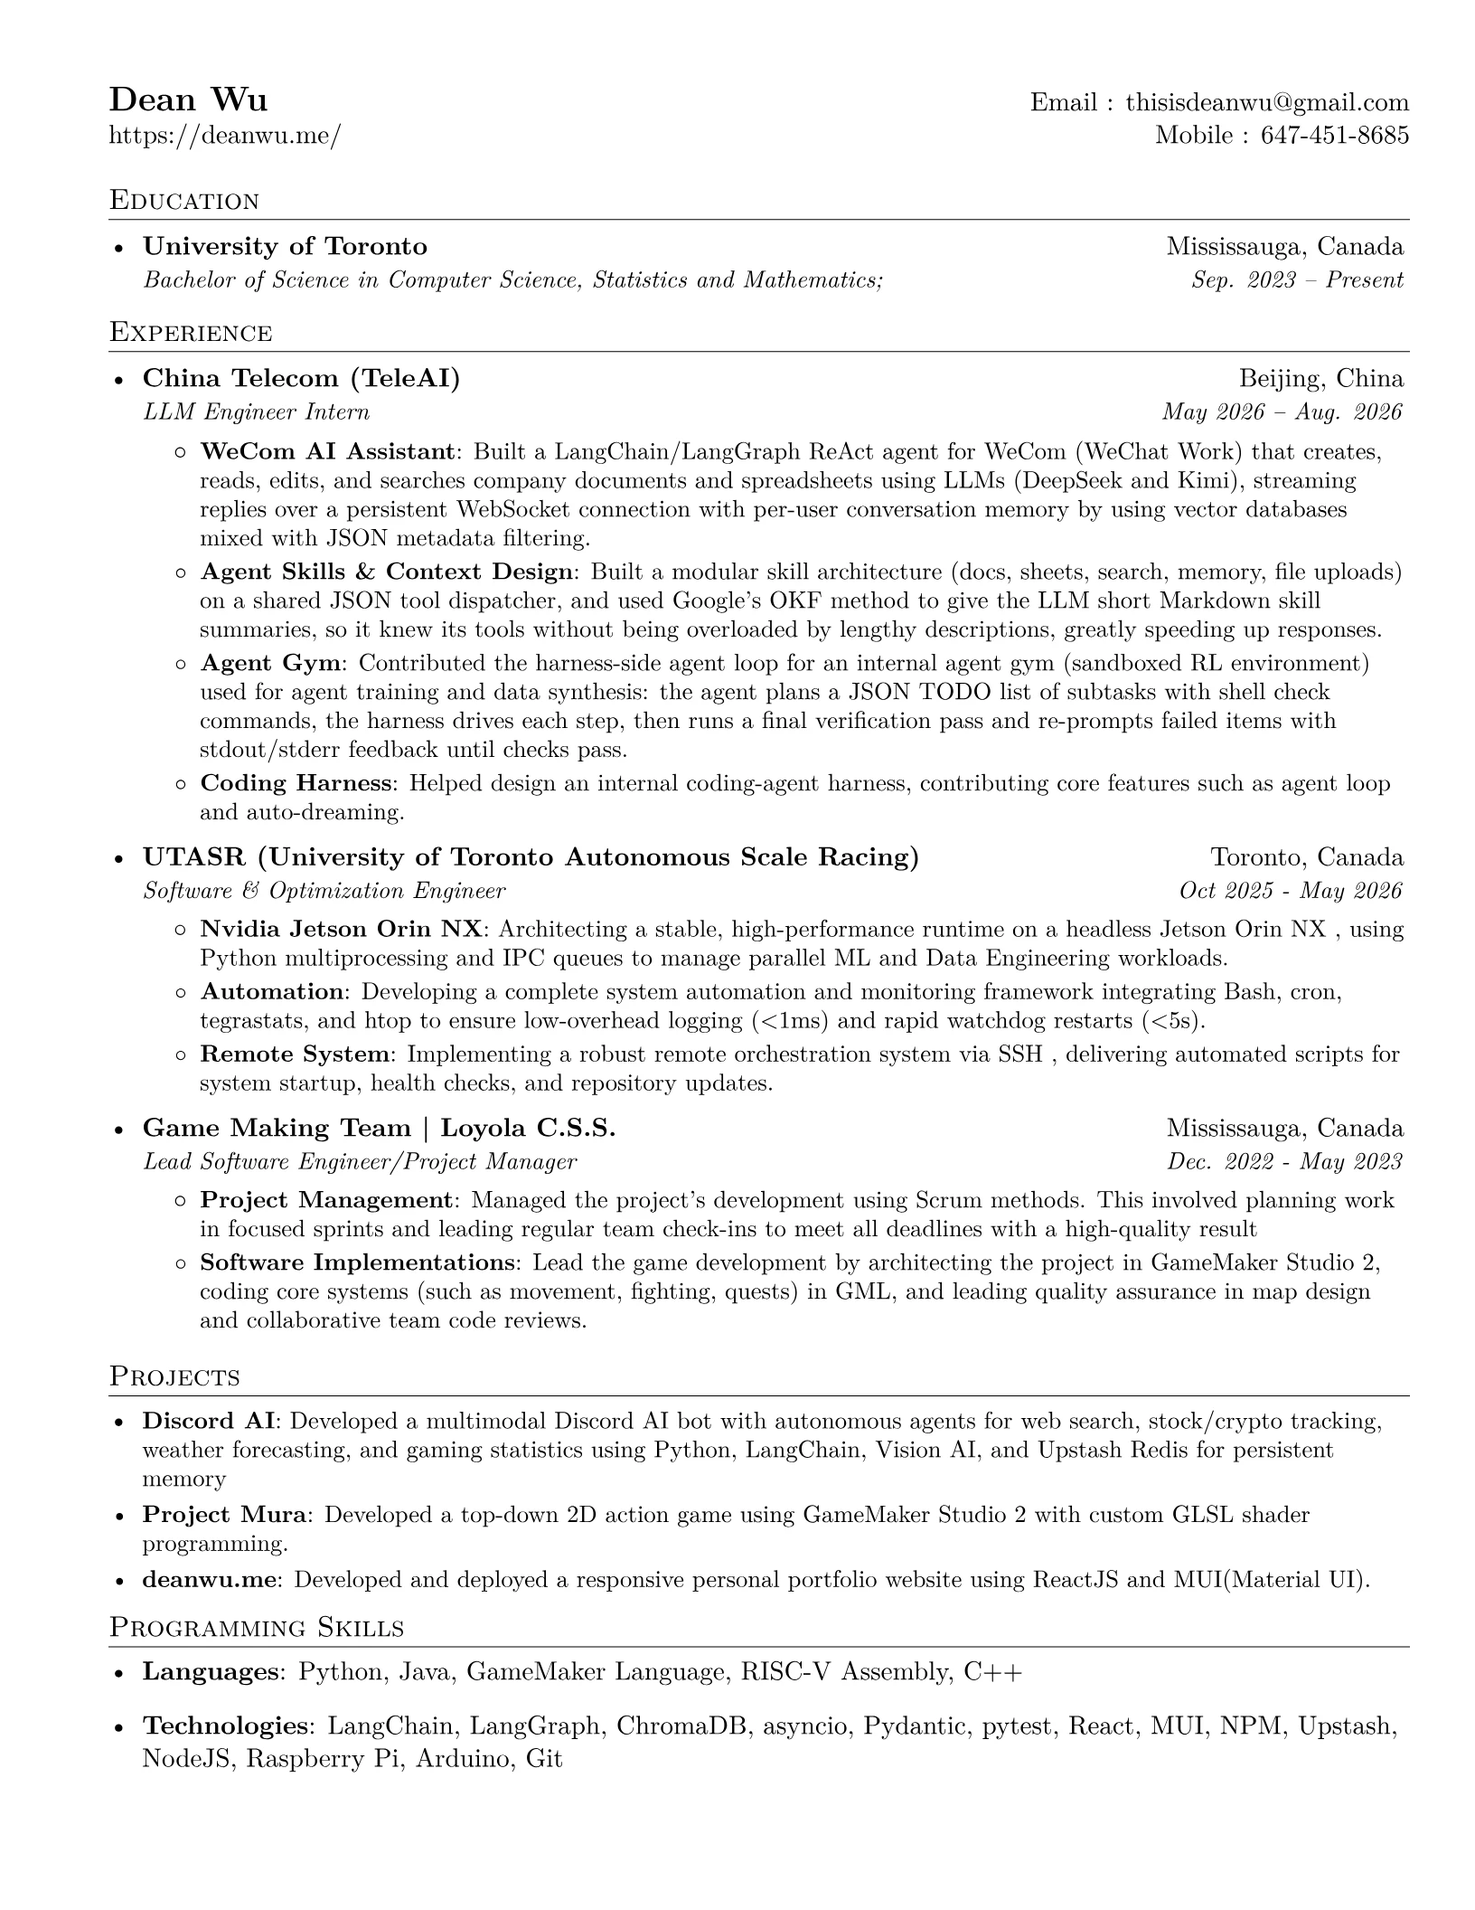
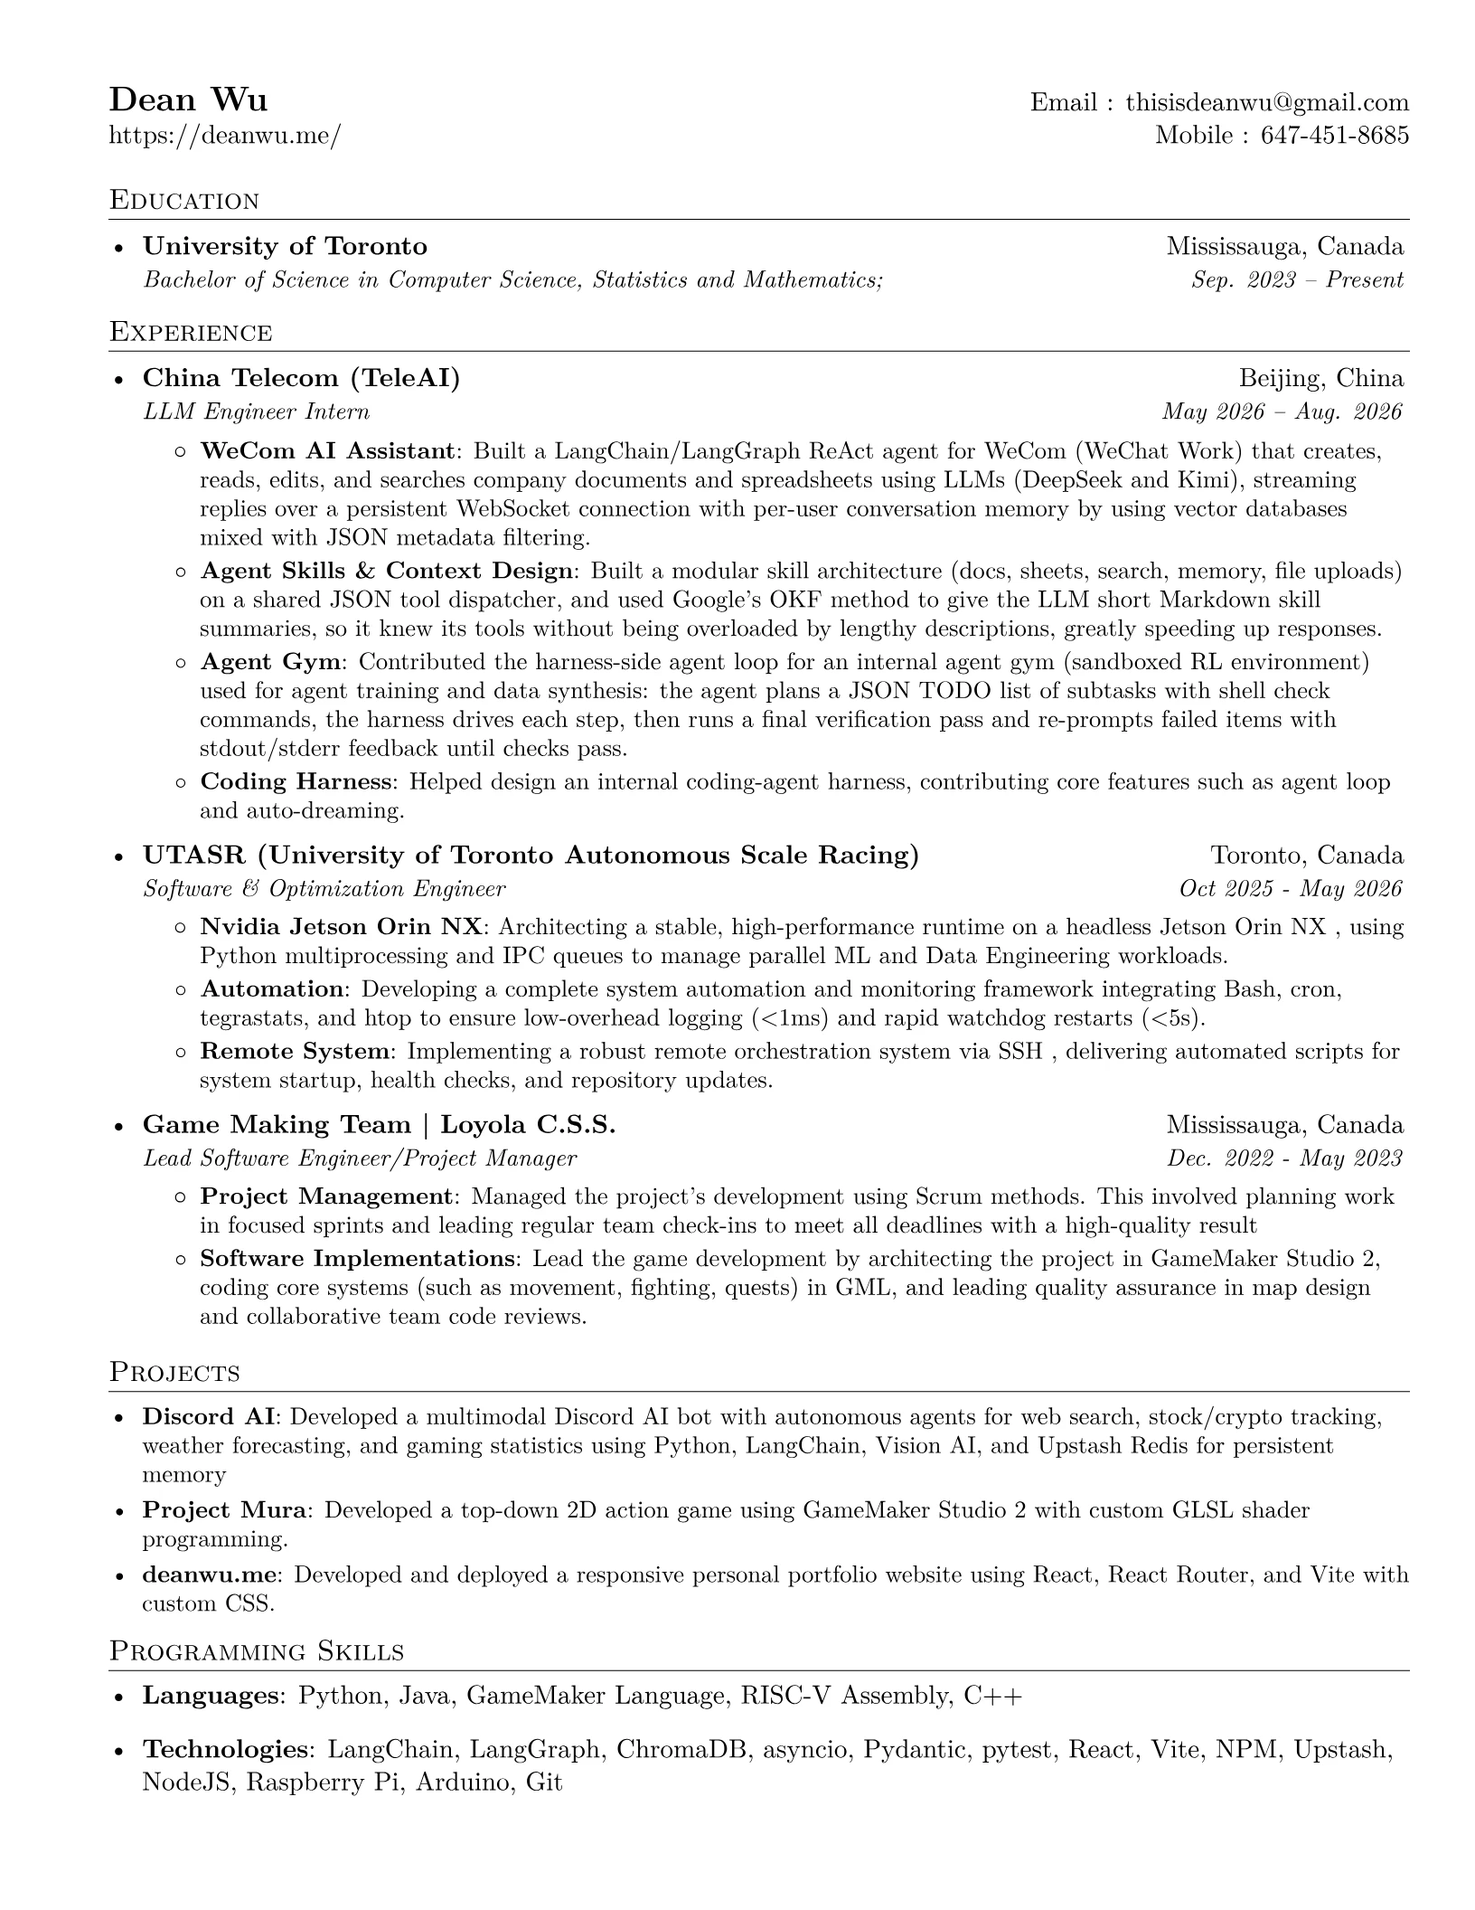
Sync resume page, experience and README with current site
- Rewrite resume page to match the LaTeX resume, keeping the longer
  detailed entries (Robotics, Basil Box, extended Game Making bullets)
- Add role/location lines to resume entries
- Update experience timeline with China Telecom and UTASR summaries,
  correct degree, remove Loyola high school
- Replace MUI with React Router/Vite in project descriptions and skills
- Refresh deanwu.me project screenshot and thumbnail
- Rewrite README with stack, local setup and resume build steps
- Regenerate resume PDF and preview

diff --git a/src/pages/Resume.jsx b/src/pages/Resume.jsx
@@ -3,16 +3,27 @@ import Page from '../components/Page';
 import useEscape from '../components/useEscape';
 import { Printer, Close } from '../components/Icons';
 
-function Entry({ title, date, points }) {
+function Entry({ title, date, subtitle, place, points }) {
   return (
     <div className="entry">
       <div className="entry-head">
         <h3>{title}</h3>
-        <span className="muted">{date}</span>
+        {date && <span className="muted">{date}</span>}
       </div>
+      {(subtitle || place) && (
+        <div className="entry-sub muted">
+          {subtitle && <i>{subtitle}</i>}
+          {place && <span>{place}</span>}
+        </div>
+      )}
       {points && <ul>{points.map((point, i) => <li key={i}>{point}</li>)}</ul>}
     </div>
   );
+}
+
+// Bulleted point with a bold lead-in, matching the PDF resume's style.
+function Point({ label, children }) {
+  return <><b>{label}:</b> {children}</>;
 }
 
 export default function Resume() {
@@ -33,41 +44,137 @@ export default function Resume() {
       </p>
 
       <h2>Education</h2>
-      <Entry title="University of Toronto" date="September 2023 – Present" />
-      <Entry title="Loyola Catholic Secondary School" date="September 2019 – June 2023" />
+      <Entry
+        title="University of Toronto"
+        date="September 2023 – Present"
+        subtitle="Bachelor of Science in Computer Science, Statistics and Mathematics"
+        place="Mississauga, Canada"
+      />
 
       <h2>Experience</h2>
-      <Entry title="LLM Engineer Intern – China Telecom (TeleAI)" date="May 2026 – August 2026" />
-      <Entry title="Software Engineer – University of Toronto Autonomous Scale Racing (UTASR)" date="October 2025 – May 2026" />
       <Entry
-        title="Lead Software Engineer – Loyola C.S.S. Robotics Team"
-        date="2022 – 2023"
+        title="China Telecom (TeleAI)"
+        date="May 2026 – August 2026"
+        subtitle="LLM Engineer Intern"
+        place="Beijing, China"
         points={[
-          'Designed and programmed opening and closing mechanisms for a doorway mechanic.',
-          'Aided in building the hardware components of the robot such as making sure the connection between controller and robot was successful.',
+          <Point label="WeCom AI Assistant">
+            Built a LangChain/LangGraph ReAct agent for WeCom (WeChat Work) that creates, reads, edits, and searches company
+            documents and spreadsheets using LLMs (DeepSeek and Kimi), streaming replies over a persistent WebSocket connection
+            with per-user conversation memory by using vector databases mixed with JSON metadata filtering.
+          </Point>,
+          <Point label="Agent Skills & Context Design">
+            Built a modular skill architecture (docs, sheets, search, memory, file uploads) on a shared JSON tool dispatcher, and
+            used Google&apos;s OKF method to give the LLM short Markdown skill summaries, so it knew its tools without being
+            overloaded by lengthy descriptions, greatly speeding up responses.
+          </Point>,
+          <Point label="Agent Gym">
+            Contributed the harness-side agent loop for an internal agent gym (sandboxed RL environment) used for agent training
+            and data synthesis: the agent plans a JSON TODO list of subtasks with shell check commands, the harness drives each
+            step, then runs a final verification pass and re-prompts failed items with stdout/stderr feedback until checks pass.
+          </Point>,
+          <Point label="Coding Harness">
+            Helped design an internal coding-agent harness, contributing core features such as agent loop and auto-dreaming.
+          </Point>,
         ]}
       />
       <Entry
-        title="Project Manager / Lead Software Engineer – Loyola C.S.S. Game Making Team"
-        date="2022"
+        title="UTASR (University of Toronto Autonomous Scale Racing)"
+        date="October 2025 – May 2026"
+        subtitle="Software & Optimization Engineer"
+        place="Toronto, Canada"
         points={[
-          <>Successfully led a team of three to <b>first place</b> in a competitive game-making contest hosted by Sheridan College and DPCDSB (Dufferin-Peel Catholic District School Board).</>,
-          'Created and executed a comprehensive project plan, ensuring timely delivery of milestones and a high-quality final product.',
-          "Designed and implemented the game's architecture, writing clean, efficient code and utilizing GameMaker Studio 2 to the maximum potential.",
-          'Conducted thorough quality assurance and testing processes, ensuring the game met all thematic and technical requirements for a polished user experience.',
-          'Facilitated clear communication with team members, promoting collaboration through code reviews and map designs.',
-          'Stepped up to take additional shifts and responsibilities when a team member fell extremely ill and required surgery, ensuring the project remained on track and met the deadline.',
+          <Point label="Nvidia Jetson Orin NX">
+            Architecting a stable, high-performance runtime on a headless Jetson Orin NX, using Python multiprocessing and IPC
+            queues to manage parallel ML and Data Engineering workloads.
+          </Point>,
+          <Point label="Automation">
+            Developing a complete system automation and monitoring framework integrating Bash, cron, tegrastats, and htop to
+            ensure low-overhead logging (&lt;1ms) and rapid watchdog restarts (&lt;5s).
+          </Point>,
+          <Point label="Remote System">
+            Implementing a robust remote orchestration system via SSH, delivering automated scripts for system startup, health
+            checks, and repository updates.
+          </Point>,
         ]}
       />
       <Entry
-        title="Artesian – Basil Box"
+        title="Game Making Team | Loyola C.S.S."
+        date="December 2022 – May 2023"
+        subtitle="Lead Software Engineer / Project Manager"
+        place="Mississauga, Canada"
+        points={[
+          <Point label="First Place">
+            Led a team of three to <b>first place</b> in a competitive game-making contest hosted by Sheridan College and
+            DPCDSB (Dufferin-Peel Catholic District School Board).
+          </Point>,
+          <Point label="Project Management">
+            Managed the project&apos;s development using Scrum methods. This involved planning work in focused sprints and
+            leading regular team check-ins to meet all deadlines with a high-quality result.
+          </Point>,
+          <Point label="Software Implementations">
+            Led the game development by architecting the project in GameMaker Studio 2, coding core systems (such as movement,
+            fighting, quests) in GML, and leading quality assurance in map design and collaborative team code reviews.
+          </Point>,
+          <Point label="Quality Assurance">
+            Conducted thorough quality assurance and testing processes, ensuring the game met all thematic and technical
+            requirements for a polished user experience.
+          </Point>,
+          <Point label="Collaboration">
+            Facilitated clear communication with team members, promoting collaboration through code reviews and map designs.
+          </Point>,
+          <Point label="Ownership">
+            Stepped up to take additional shifts and responsibilities when a team member fell extremely ill and required
+            surgery, ensuring the project remained on track and met the deadline.
+          </Point>,
+        ]}
+      />
+      <Entry
+        title="Robotics Team | Loyola C.S.S."
+        date="September 2022 – March 2023"
+        subtitle="Lead Software Engineer"
+        place="Mississauga, Canada"
+        points={[
+          <Point label="Automated Doorway System">
+            Developed C++ firmware for an Arduino microcontroller to manage the control logic and actuation of an automated
+            doorway system in a remote-controlled floor hockey robot.
+          </Point>,
+          <Point label="Physical Structure">
+            Designed and fabricated a custom chassis to house and integrate the control system (Arduino, sensors, actuators)
+            for a remote-controlled floor hockey robot.
+          </Point>,
+          <Point label="Hardware Integration">
+            Aided in building the robot&apos;s hardware components, including making sure the connection between the
+            controller and the robot was reliable.
+          </Point>,
+        ]}
+      />
+      <Entry
+        title="Basil Box"
         date="2021 – 2022"
+        subtitle="Artisan"
         points={[
           'Maintained and cleaned the kitchen, seating area, and front counters by efficiently washing, rinsing and sanitizing countertops, equipment and dishes.',
           'Skillfully operated industrial level dishwashers ensuring all items were cleaned to high standards and promptly restocked for use.',
-          'Followed all health and safety regulations set by the FDA, including proper use of chemicals and maintaining cleanliness to prevent contamination.',
+          'Followed all Ontario food safety and health regulations, including proper use of chemicals and maintaining cleanliness to prevent contamination.',
           'Worked effectively with kitchen and front staff members to ensure smooth operations at both the front and back end.',
         ]}
+      />
+
+      <h2>Projects</h2>
+      <Entry
+        title="Discord AI"
+        points={[
+          'Developed a multimodal Discord AI bot with autonomous agents for web search, stock/crypto tracking, weather forecasting, and gaming statistics using Python, LangChain, Vision AI, and Upstash Redis for persistent memory.',
+        ]}
+      />
+      <Entry
+        title="Project Mura"
+        points={['Developed a top-down 2D action game using GameMaker Studio 2 with custom GLSL shader programming.']}
+      />
+      <Entry
+        title="deanwu.me"
+        points={['Developed and deployed a responsive personal portfolio website using React, React Router, and Vite with custom CSS.']}
       />
 
       <h2>Volunteer</h2>
@@ -123,8 +230,11 @@ export default function Resume() {
 
       <h2>Skills</h2>
       <p>
-        <b>Languages</b> – Java, Python, ReactJS, HTML, CSS, JavaScript, GameMaker Language, Arduino Language,
-        NodeJS, NPM, Raspberry Pi, MUI
+        <b>Languages</b> – Python, Java, GameMaker Language, RISC-V Assembly, C++
+      </p>
+      <p>
+        <b>Technologies</b> – LangChain, LangGraph, ChromaDB, asyncio, Pydantic, pytest, React, Vite, NPM, Upstash, NodeJS,
+        Raspberry Pi, Arduino, Git
       </p>
 
       {preview && (

diff --git a/src/data/experience.js b/src/data/experience.js
@@ -3,15 +3,17 @@ export const experience = [
   {
     date: 'May 2026 – August 2026',
     title: 'LLM Engineer Intern, China Telecom (TeleAI)',
+    text: 'Built a LangChain/LangGraph AI assistant for WeCom that works with company documents and spreadsheets, and contributed the agent loop and other core features to internal agent-training and coding-agent harnesses in Beijing.',
   },
   {
     date: 'October 2025 – May 2026',
-    title: 'Software Engineer, University of Toronto Autonomous Scale Racing (UTASR)',
+    title: 'Software & Optimization Engineer, University of Toronto Autonomous Scale Racing (UTASR)',
+    text: 'Architected a high-performance runtime on an Nvidia Jetson Orin NX for parallel ML and data workloads, with automated monitoring, watchdog restarts and remote orchestration over SSH.',
   },
   {
     date: '2023 – Present',
     title: 'University of Toronto',
-    text: 'Bachelor of Applied Science (BASc), Computer Science.',
+    text: 'Bachelor of Science (BSc), Computer Science, Statistics and Mathematics.',
   },
   {
     date: '2022 – 2023',
@@ -19,18 +21,13 @@ export const experience = [
     text: 'Helped develop remote controlled robots that played floor hockey using Arduino and VEX Robotics at Loyola Catholic Secondary School.',
   },
   {
-    date: '2022',
+    date: '2022 – 2023',
     title: 'Project Manager and Lead Software Engineer, Game Making Team',
     text: 'Led a team of 3 in an annual game dev contest hosted by Sheridan College and DPCDSB. This project ultimately led us to win the "Best Themed Game" award.',
   },
   {
     date: '2021 – 2022',
-    title: 'Artesian, Basil Box',
+    title: 'Artisan, Basil Box',
     text: 'Worked in a Thai and Vietnamese-styled restaurant as an all-around cook, dishwasher and cashier.',
-  },
-  {
-    date: '2019 – 2023',
-    title: 'Loyola Catholic Secondary School',
-    text: 'Ontario Secondary School Diploma (OSSD).',
   },
 ];

diff --git a/src/index.css b/src/index.css
@@ -239,6 +239,7 @@ li { margin-bottom: 0.5em; }
 .entry { padding: 20px 0; border-bottom: 1px solid var(--line); }
 .entry-head { display: flex; flex-wrap: wrap; justify-content: space-between; align-items: baseline; gap: 4px 16px; }
 .entry h3 { margin: 0; font-size: 19px; }
+.entry-sub { display: flex; flex-wrap: wrap; justify-content: space-between; gap: 4px 16px; margin-top: 4px; font-size: 15px; }
 .entry ul { margin: 12px 0 0; padding-left: 1.2em; color: var(--muted); }
 
 /* Notes */

diff --git a/src/data/projects.js b/src/data/projects.js
@@ -18,7 +18,7 @@ export const projects = [
     date: 2024,
     image: ReactWebsite,
     thumb: ReactWebsiteThumb,
-    description: 'The website you are on right now, built with React.',
+    description: 'The website you are on right now, built with React and Vite.',
     links: { Code: 'https://github.com/probably-dean-wu/deanwu.me' },
   },
   {

diff --git a/resume/resume.tex b/resume/resume.tex
@@ -142,7 +142,7 @@
     \resumeSubItem{Project Mura}
       {Developed a top-down 2D action game using GameMaker Studio 2 with custom GLSL shader programming.}
     \resumeSubItem{deanwu.me}
-      {Developed and deployed a responsive personal portfolio website using ReactJS and MUI(Material UI).}
+      {Developed and deployed a responsive personal portfolio website using React, React Router, and Vite with custom CSS.}
 %     \resumeSubItem{Mac Setup}
 %       {Book that gives step by step instructions on setting up developer environment on Mac OS.}
   \resumeSubHeadingListEnd
@@ -155,7 +155,7 @@
      \textbf{Languages}{: Python, Java, GameMaker Language, RISC-V Assembly, C++}
    }
    \item{
-     \textbf{Technologies}{: LangChain, LangGraph, ChromaDB, asyncio, Pydantic, pytest, React, MUI, NPM, Upstash, NodeJS, Raspberry Pi, Arduino, Git}
+     \textbf{Technologies}{: LangChain, LangGraph, ChromaDB, asyncio, Pydantic, pytest, React, Vite, NPM, Upstash, NodeJS, Raspberry Pi, Arduino, Git}
    }
  \resumeSubHeadingListEnd
 

diff --git a/README.md b/README.md
@@ -1,3 +1,42 @@
-deanwu.me is made using ReactJS and Node.js.
+# deanwu.me
 
-The source for this website is made with the intentions of personal use and not be a template or theme. Feel free to take any inspirations from this website but it was made without considering being cloned or deployed. 
+My personal portfolio website, built with [React](https://react.dev/), [React Router](https://reactrouter.com/), and [Vite](https://vite.dev/), styled with plain CSS (no UI framework).
+
+The source for this website is made with the intentions of personal use and not be a template or theme. Feel free to take any inspirations from this website but it was made without considering being cloned or deployed.
+
+## Running locally
+
+Requires Node.js.
+
+```bash
+npm install
+npm start        # dev server at http://localhost:3000
+npm run build    # production build into build/
+npm run preview  # serve the production build
+```
+
+## Resume
+
+The resume is written in LaTeX at `resume/resume.tex`. The site serves a compiled copy, so after editing it run:
+
+```bash
+npm run resume
+```
+
+This compiles `public/Dean_Wu_Resume.pdf` and renders `public/resume-preview.webp`, the image shown in the site's resume preview. It needs `pdflatex` from a LaTeX distribution such as [MiKTeX](https://miktex.org/) (`winget install MiKTeX.MiKTeX` on Windows).
+
+The resume page itself (`src/pages/Resume.jsx`) is a longer, more detailed version and is edited by hand.
+
+## Project structure
+
+```
+src/
+  pages/       one component per route (Home, About, Projects, Resume, ...)
+  components/  shared layout pieces (Navbar, Footer, Page, ...)
+  data/        project, experience and award listings
+  images/      images bundled by Vite
+  index.css    all site styles
+public/        files served as-is (resume PDF, favicons, .htaccess)
+resume/        LaTeX source of the resume
+scripts/       build-resume.mjs, used by `npm run resume`
+```
